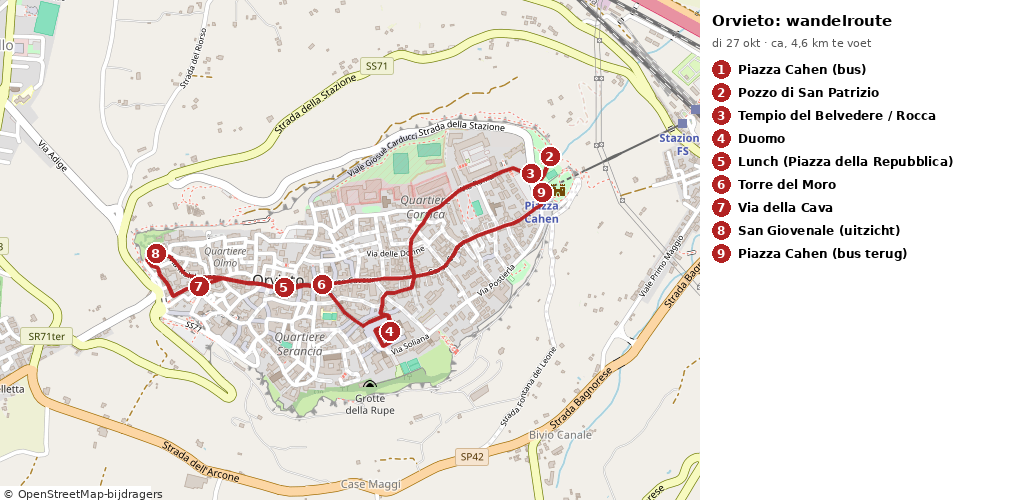
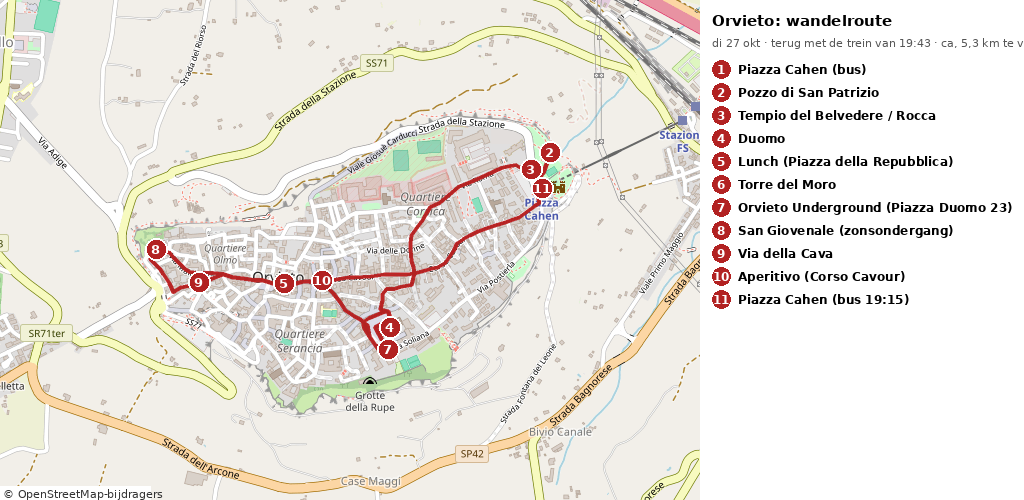
Orvieto: Underground 16:00, trein terug 19:43 (v125)

diff --git a/index.html b/index.html
@@ -245,9 +245,9 @@ rome26:{
   text:'De Janiculum-heuvel geeft het breedste uitzicht over Rome: koepels, daken en de heuvels erachter, met de zon die achter je ondergaat en de stad oranje kleurt. Onderweg passeer je de grote Fontana dell’Acqua Paola. Gratis. (Het kanonschot is om 12:00, dat zie je vandaag niet.) <b>Eten</b>: loop bergaf terug naar Trastevere, naar <b>Da Enzo al 29</b> (Via dei Vascellari 29, ca. 1,8 km, 24 min): kleine Romeinse trattoria, ma–za 18:30–22:30, <b>geen reserveringen</b>, dus rond 18:00 in de rij (bron: daenzoal29.com). <b>Terug naar het hotel</b>: <b>taxi</b> van de standplaats op <b>Piazza Giuseppe Gioacchino Belli</b> (ca. 0,5 km van Da Enzo, aan Viale di Trastevere) of bel 060609 / app <i>Chiama Taxi</i> (Roma Capitale). Naar Via Andrea Alciato 14 is het ca. 20 min; doordeweeks overdag €3,50 instap plus meter <span class="open">ritprijs ca. €15–20 geschat, niet gecontroleerd</span>.',extra:{url:'?stad=rome27',label:'➡ Volgende dag: dagtrip Orvieto'}}
  ]},
 rome27:{
- title:'Orvieto (di 27 okt)',sub:'Dagtrip met de trein: Pozzo di San Patrizio · Rocca en Etruskische tempel · Duomo met de fresco’s van Signorelli · lunch · Torre del Moro · Via della Cava · uitzicht vanaf de rand van de rots · ca. 4,6 km lopen',
- route:'https://www.google.com/maps/dir/Piazza+Cahen+Orvieto/Pozzo+di+San+Patrizio/Tempio+del+Belvedere+Orvieto/Duomo+di+Orvieto/Piazza+della+Repubblica+Orvieto/Torre+del+Moro+Orvieto/Pozzo+della+Cava+Orvieto/Chiesa+di+San+Giovenale+Orvieto/Piazza+Cahen+Orvieto/data=!4m2!4m1!3e2',
- note:'🧭 <b>Dag:</b> dagtrip naar Orvieto, een middeleeuws stadje bovenop een tufsteenrots, ca. 1¼ uur ten noorden van Rome. ⚠ <b>Treinen (Trenitalia, vanavond opgevraagd voor di 27 okt)</b>: de directe regionale treinen van 09:15 en 10:08 staan voor morgen <b>niet</b> in de dienstregeling (vermoedelijk werkzaamheden). <b>Heen</b>: <b>IC 588 Roma Termini 10:15 → Orvieto 11:37</b> (Intercity: Interrail plus kleine reservering, in de Trenitalia-app of via Interrail). Zonder reservering: RV 4098 08:20 → 10:22 (regionaal, rechtstreeks), of 10:32 metro B naar Tiburtina + RE 4100 11:08 → 12:22. <b>Terug</b>: <b>RV 4107 Orvieto 17:29 → Termini 19:45</b> (regionaal, rechtstreeks); ook 16:27 → 18:10 (overstap Orte), 19:43 → 21:35 (rechtstreeks), 20:15 IC → 22:20 en 21:29 → 23:20. Om 18:35 rijdt deels een bus. <span class="open">Check de tijden morgenochtend nog even in de Trenitalia-app</span>. 🚇 Hotel → Termini: ca. 09:30 het hotel uit, metro A Cornelia → Termini ca. 20 min (rechtstreeks, richting Anagnina). 🚌 <b>De funicolare is dicht voor onderhoud</b>: een pendelbus van BusItalia rijdt op werkdagen elke 10 min (07:30–20:30) van <b>Piazza Matteotti</b> (voor het station) naar <b>Piazza Cahen</b> boven op de rots <span class="open">prijs/kaartje niet gecontroleerd, vraag bij het station</span>. 🎫 Losse kaartjes: Pozzo €6, Duomo €8, Torre €3,80 (samen €17,80). De online <b>Carta Unica “Medioevo”</b> (€18: Duomo, Pozzo, Torre en Museo Faina) loont alleen als je ook het Museo Faina doet; de volledige <b>Carta Unica</b> (€35) bevat ook Orvieto Underground (cartaunica.it). 🕳 <b>Orvieto Underground</b>: rondleiding van ca. 1 uur door grotten en gangen onder de stad, dagelijks 11:00, 12:15, 16:00 en 17:15 vanaf Piazza Duomo 23, €10 (orvietoviva.com; reserveren via booking@orvietounderground.it of 0763 340688). Wil je die om 16:00 doen, sla dan Via della Cava en San Giovenale over, kijk de zonsondergang (ca. 17:13) vanuit de tuin van de Rocca bij Piazza Cahen en neem de trein van 19:43. 🍷 Proef de <b>Orvieto Classico</b>, de droge witte wijn van de heuvels rond de stad. 🔁 Toch in Rome blijven? Zie het <a href="?stad=rome27alt">alternatieve dinsdagprogramma</a>.'+'<br><a href="img/route_orvieto.png"><img src="img/route_orvieto.png" alt="Kaart Orvieto" style="width:100%;border-radius:10px;margin-top:10px"></a><br><small>Wandelroute over straten, stops 2–9 (Piazza Cahen → rondje → Piazza Cahen, ca. 4,6 km). Tik om te vergroten. © OpenStreetMap-bijdragers</small>',
+ title:'Orvieto (di 27 okt)',sub:'Dagtrip met de trein: Pozzo di San Patrizio · Rocca en Etruskische tempel · Duomo met de fresco’s van Signorelli · lunch · Torre del Moro · Orvieto Underground (16:00) · zonsondergang bij San Giovenale · Via della Cava · aperitivo · trein 19:43 · ca. 5,3 km lopen',
+ route:'https://www.google.com/maps/dir/Piazza+Cahen+Orvieto/Pozzo+di+San+Patrizio/Tempio+del+Belvedere+Orvieto/Duomo+di+Orvieto/Piazza+della+Repubblica+Orvieto/Torre+del+Moro+Orvieto/Piazza+del+Duomo+23+Orvieto/Chiesa+di+San+Giovenale+Orvieto/Pozzo+della+Cava+Orvieto/Corso+Cavour+Orvieto/Piazza+Cahen+Orvieto/data=!4m2!4m1!3e2',
+ note:'🧭 <b>Dag:</b> dagtrip naar Orvieto, een middeleeuws stadje bovenop een tufsteenrots, ca. 1¼ uur ten noorden van Rome. ⚠ <b>Treinen (Trenitalia, vanavond opgevraagd voor di 27 okt)</b>: de directe regionale treinen van 09:15 en 10:08 staan voor morgen <b>niet</b> in de dienstregeling (vermoedelijk werkzaamheden). <b>Heen</b>: <b>IC 588 Roma Termini 10:15 → Orvieto 11:37</b> (Intercity: Interrail plus kleine reservering, in de Trenitalia-app of via Interrail). Zonder reservering: RV 4098 08:20 → 10:22 (regionaal, rechtstreeks), of 10:32 metro B naar Tiburtina + RE 4100 11:08 → 12:22. <b>Terug (gekozen)</b>: <b>Orvieto 19:43 → Roma Termini 21:35</b> (RE, regionaal, rechtstreeks, Interrail zonder reservering). Mis je die: 20:15 IC → 22:20 (reservering) of 21:29 → 23:20. <span class="open">Check de tijden morgenochtend nog even in de Trenitalia-app</span>. 🚇 Hotel → Termini: ca. 09:30 het hotel uit, metro A Cornelia → Termini ca. 20 min (rechtstreeks, richting Anagnina). 🚌 <b>De funicolare is dicht voor onderhoud</b>: een pendelbus van BusItalia rijdt op werkdagen elke 10 min (07:30–20:30) van <b>Piazza Matteotti</b> (voor het station) naar <b>Piazza Cahen</b> boven op de rots <span class="open">prijs/kaartje niet gecontroleerd, vraag bij het station</span>. 🎫 Losse kaartjes: Pozzo €6, Duomo €8, Torre €3,80 (samen €17,80). De online <b>Carta Unica “Medioevo”</b> (€18: Duomo, Pozzo, Torre en Museo Faina) loont alleen als je ook het Museo Faina doet; de volledige <b>Carta Unica</b> (€35) bevat ook Orvieto Underground (cartaunica.it). 🕳 <b>Orvieto Underground</b>: rondleiding van ca. 1 uur door grotten en gangen onder de stad, dagelijks 11:00, 12:15, 16:00 en 17:15 vanaf Piazza Duomo 23, €10 (orvietoviva.com; reserveren via booking@orvietounderground.it of 0763 340688). <b>Je doet de tour van 16:00</b>; koop het kaartje bij het kantoor op Piazza Duomo 23 al als je bij de Duomo bent (ca. 13:00), dan weet je zeker dat er plek is. 🍷 Proef de <b>Orvieto Classico</b>, de droge witte wijn van de heuvels rond de stad. 🔁 Toch in Rome blijven? Zie het <a href="?stad=rome27alt">alternatieve dinsdagprogramma</a>.'+'<br><a href="img/route_orvieto.png"><img src="img/route_orvieto.png" alt="Kaart Orvieto" style="width:100%;border-radius:10px;margin-top:10px"></a><br><small>Wandelroute over straten, stops 2–11 (Piazza Cahen → rondje → Piazza Cahen, ca. 5,3 km). Tik om te vergroten. © OpenStreetMap-bijdragers</small>',
  stops:[
  {name:'Trein naar Orvieto en pendelbus naar boven',img:'img/145.jpg',time:'09:30 hotel → IC 10:15 → 11:37 → bus ca. 11:45',leg:'Hotel → metro A Cornelia → Termini (ca. 30 min incl. lopen) · IC 588 Termini 10:15 → Orvieto 11:37 · pendelbus Piazza Matteotti → Piazza Cahen, ca. 10 min',url:am('','Piazza%20Cahen%2C%20Orvieto','w'),
   text:'Vanuit de trein zie je Orvieto al liggen: een stad op een platte rots van vulkanisch tufsteen, zo’n 300 meter boven het dal van de Paglia. Etrusken woonden hier al (Velzna); in de middeleeuwen was het een vrije stadstaat en een geliefde schuilplaats van pausen. Omdat de kabelbaan (funicolare) in onderhoud is, neem je de <b>pendelbus</b> vanaf het plein voor het station (Piazza Matteotti) naar Piazza Cahen, elke 10 min.'},
@@ -256,15 +256,21 @@ rome27:{
  {name:'Tempio del Belvedere en de tuin van de Rocca',img:'img/147.jpg',time:'ca. 12:35–12:50',leg:'Pozzo → Tempio del Belvedere → tuin van de Rocca Albornoz, ca. 0,2 km, 3 min lopen',url:am('','Tempio%20del%20Belvedere%2C%20Orvieto','w'),
   text:'Naast de put liggen de fundamenten van een <b>Etruskische tempel</b> uit de 5e eeuw v.Chr., gratis te bekijken vanaf het hek. Daarachter de <b>Rocca Albornoz</b>, een pauselijke burcht uit 1364; in de tuin op de muren kijk je ver uit over het dal en de spoorlijn. Gratis.'},
  {name:'Duomo di Orvieto en de Cappella di San Brizio',img:'img/148.jpg',time:'ca. 13:05–13:50',leg:'Rocca → Corso Cavour → Via del Duomo → Piazza del Duomo, ca. 1,1 km, 14 min lopen',url:am('','Duomo%20di%20Orvieto','w'),
-  text:'Je loopt over de <b>Corso Cavour</b>, de hoofdstraat, en via de smalle Via del Duomo sta je opeens voor een van de mooiste gevels van Italië: gotisch, gestreept, vol gouden mozaïeken en reliëfs (1290–15e eeuw). Binnen zijn de muren gestreept met basalt en travertijn. Hoogtepunt is de <b>Cappella di San Brizio</b>, met de fresco’s van <b>Luca Signorelli</b> (1499–1504) over het einde der tijden en het Laatste Oordeel; Michelangelo kwam ze bestuderen. €8 (complex), okt 09:30–19:00.'},
+  text:'Je loopt over de <b>Corso Cavour</b>, de hoofdstraat, en via de smalle Via del Duomo sta je opeens voor een van de mooiste gevels van Italië: gotisch, gestreept, vol gouden mozaïeken en reliëfs (1290–15e eeuw). Binnen zijn de muren gestreept met basalt en travertijn. Hoogtepunt is de <b>Cappella di San Brizio</b>, met de fresco’s van <b>Luca Signorelli</b> (1499–1504) over het einde der tijden en het Laatste Oordeel; Michelangelo kwam ze bestuderen. €8 (complex), okt 09:30–19:00. 🎟 <b>Koop meteen je kaartje voor Orvieto Underground</b> (tour 16:00, €10) bij het kantoor op Piazza del Duomo 23, schuin tegenover de gevel.'},
  {name:'Lunch: Umbrische trattoria',img:'img/149.jpg',time:'ca. 14:00–15:00',leg:'Piazza del Duomo → Piazza della Repubblica / Via della Misericordia, ca. 0,6–0,8 km, 8–11 min lopen',url:am('','Via%20della%20Misericordia%2018%2C%20Orvieto','w'),
   text:'Drie rustige trattoria’s met Umbrische keuken, alle drie op dinsdag open: <b>Trattoria dell’Orso</b> (Via della Misericordia 18, 0763 341642): kleine historische trattoria vlak bij Piazza della Repubblica, pasta, soepen en zwarte truffel, lunch ca. 12:15–15:00, ca. €30–40 p.p. <span class="open">orvietoviva.com: gesloten op zondag; één gids meldt dinsdag dicht, bel even</span>. <b>Antico Bucchero</b> (Via dei Cartari 4, bij de Torre del Moro): Orvietaanse keuken met truffel en wild, o.a. pappardelle met witte wildzwijnragù, lunch 12:00–14:30, ca. €20–30 p.p., gesloten op vrijdag (orvietoviva.com, restaurantguru). <b>Trattoria La Palomba</b> (Via Cipriano Manente 16, 0763 343395): familiebedrijf sinds 1965, Michelin-gids (€), handgemaakte <i>umbrichelli</i> en duif (<i>palomba</i>), lunch tot 14:15, gesloten op woensdag; reserveer en ga liever vóór de Duomo (ca. 13:00) <span class="open">prijs ca. €30 p.p. geschat</span>. Drink er een glas <b>Orvieto Classico</b> bij. Let op: Trattoria del Moro Aronne en La Grotta zijn op dinsdag dicht.'},
  {name:'Torre del Moro',img:'img/150.jpg',time:'ca. 15:05–15:35 (laatste klim 16:00)',leg:'Piazza della Repubblica → Corso Cavour 87, ca. 0,15 km, 2 min lopen',url:am('','Torre%20del%20Moro%2C%20Orvieto','w'),
   text:'De 47 meter hoge stadstoren (13e eeuw) op de kruising van de oude hoofdstraten. Je klimt (deels met een lift) naar de top, met het beste uitzicht van de stad: de Duomo, de daken en het dal rondom. €3,80, okt 10:30–16:30, laatste klim 16:00.'},
- {name:'Via della Cava en het middeleeuwse kwartier',img:'img/151.jpg',time:'ca. 15:45–16:05',leg:'Torre del Moro → Corso Cavour → Via della Cava, ca. 0,45 km, 6 min lopen',url:am('','Pozzo%20della%20Cava%2C%20Orvieto','w'),
-  text:'Het westelijke deel van de stad, het <b>Quartiere Medievale</b>, is het stilste en mooiste: steegjes van tufsteen, bloempotten, kleine werkplaatsen. Via della Cava loopt schuin naar beneden naar de oude stadspoort Porta Maggiore. Halverwege ligt de <b>Pozzo della Cava</b>, een Etruskische put met grotten eronder <span class="open">optioneel, openingstijden en prijs niet gecontroleerd</span>.'},
- {name:'San Giovenale: uitzicht vanaf de rand van de rots',img:'img/152.jpg',time:'ca. 16:10–16:30',leg:'Via della Cava → Via Volsinia → Piazza San Giovenale, ca. 0,3 km, 4 min lopen',url:am('','Chiesa%20di%20San%20Giovenale%2C%20Orvieto','w'),
-  text:'Op het westelijke puntje van de rots staat de <b>San Giovenale</b> (1004), de oudste kerk van Orvieto, met fresco’s uit de 13e–15e eeuw. Vanaf het pleintje kijk je over de rand van de rots naar de wijngaarden waar de Orvieto Classico vandaan komt. <b>Terug</b>: loop over Via Malabranca en Corso Cavour terug naar <b>Piazza Cahen</b> (ca. 1,5 km, 20 min), neem rond 16:55 de pendelbus naar het station en de <b>RV 4107 om 17:29</b> naar Termini (aankomst 19:45). Daarna metro A naar Cornelia; rond 20:25 ben je in het hotel.',extra:{url:'?stad=rome',label:'➡ Woensdag: Colosseum en trein naar Bolzano'}}
+ {name:'Orvieto Underground',img:'img/153.jpg',time:'15:40 bij het kantoor · tour 16:00–17:00',leg:'Torre del Moro → Via del Duomo → Piazza del Duomo 23, ca. 0,4 km, 5 min lopen',url:am('','Piazza%20del%20Duomo%2023%2C%20Orvieto','w'),
+  text:'Onder Orvieto liggen meer dan 1200 grotten, gangen en putten, in de loop van 2500 jaar in het zachte tufsteen uitgehakt. Met een gids (ook in het Engels) daal je af in de rotswand onder de stad: Etruskische waterputten, middeleeuwse olijfpersen en kelders, en de <b>colombai</b>, wanden vol nisjes waarin duiven werden gehouden voor het vlees (vandaar <i>palomba</i> op het menu). Start bij het kantoor op <b>Piazza del Duomo 23</b>, ca. 1 uur, <b>€10</b>. Er zijn treden; neem een jas mee, het is er koel.'},
+ {name:'San Giovenale: zonsondergang aan de rand van de rots',img:'img/152.jpg',time:'ca. 17:15–17:35 (zon onder ca. 17:13)',leg:'Piazza del Duomo → Via Malabranca → Piazza San Giovenale, ca. 1,0 km, 12–13 min lopen',url:am('','Chiesa%20di%20San%20Giovenale%2C%20Orvieto','w'),
+  text:'Loop na de tour meteen door naar het westelijke puntje van de rots. Daar staat de <b>San Giovenale</b> (1004), de oudste kerk van Orvieto. Vanaf het pleintje kijk je over de rand van de rots naar het dal en de wijngaarden waar de Orvieto Classico vandaan komt. Je komt net na zonsondergang aan, in het mooiste avondrood.'},
+ {name:'Via della Cava en het middeleeuwse kwartier',img:'img/151.jpg',time:'ca. 17:40–17:55',leg:'San Giovenale → Via della Cava, ca. 0,3 km, 4 min lopen',url:am('','Pozzo%20della%20Cava%2C%20Orvieto','w'),
+  text:'Terug de stad in door het <b>Quartiere Medievale</b>, het stilste en mooiste deel van Orvieto: steegjes van tufsteen, bloempotten, kleine werkplaatsen, in de schemering met de lantaarns aan. Via della Cava loopt schuin omhoog richting Corso Cavour; halverwege ligt de <b>Pozzo della Cava</b>, een Etruskische put <span class="open">openingstijden niet gecontroleerd</span>.'},
+ {name:'Aperitivo met Orvieto Classico',img:'img/154.jpg',time:'ca. 18:00–19:00',leg:'Via della Cava → Corso Cavour (bij de Torre del Moro / Piazza della Repubblica), ca. 0,45 km, 6 min lopen',url:am('','Corso%20Cavour%2C%20Orvieto','w'),
+  text:'Sluit af met een glas <b>Orvieto Classico</b> in een enoteca of bar aan of rond de Corso Cavour, met een plankje Umbrische salumi en pecorino of een bruschetta met truffel. Een echt diner lukt niet: de trattoria’s gaan ’s avonds pas om 19:00–19:30 open, dus maak van het plankje je avondeten of neem iets mee voor in de trein <span class="open">geen specifieke bar gecontroleerd</span>. Vertrek <b>uiterlijk 19:00</b> naar Piazza Cahen.'},
+ {name:'Pendelbus en trein terug naar Rome',img:'img/155.jpg',time:'bus ca. 19:15 · trein 19:43 → 21:35 · hotel ca. 22:15',leg:'Corso Cavour → Piazza Cahen, ca. 0,9 km, 12 min lopen · pendelbus naar het station, ca. 10 min',url:am('','Stazione%20di%20Orvieto','w'),
+  text:'Neem rond <b>19:15</b> de pendelbus van Piazza Cahen naar het station (elke 10 min, tot 20:30), zodat je ruim op tijd bent voor de <b>trein van 19:43</b>, rechtstreeks naar <b>Roma Termini (21:35)</b>, regionaal en zonder reservering. In Termini neem je <b>metro A</b> richting Battistini naar <b>Cornelia</b> (ca. 20 min), dan 8 min lopen: rond <b>22:15</b> ben je in het hotel. Kijk vanuit de bus nog één keer om naar de stad op de rots.',extra:{url:'?stad=rome',label:'➡ Woensdag: Colosseum en trein naar Bolzano'}}
  ]},
 rome27alt:{
  title:'Rome (di 27 okt) – alternatief',sub:'Als je tóch in Rome blijft: Piazza del Popolo, Pincio, Villa Borghese, Spaanse Trappen, Trevi, Engelenburcht bij zonsondergang · ca. 5,5 km (Pantheon en Navona heb je maandag al gezien)',
@@ -482,7 +488,7 @@ D('2026-10-23','Taormina → Catania, middag en avond',['☀ Zonnig tot half 
 D('2026-10-24','Dagtrip Siracusa en Ortigia',['☀ 13–26°C, droog, weinig wind · ⏰ vannacht gaat de klok terug (wintertijd)','🚆 Hotel weg 07:25, <b>RE 12959 Cannizzaro 07:49 → Catania Centrale 08:02</b> (Interrail)','🚌 <b>Trenitalia-bus PA519 08:56 → Siracusa 09:49</b> (rechtstreeks; Interrail <span class="open">check bij de chauffeur</span>)','🏛 10:10 Tempio di Apollo (gratis van buiten)','🛒 10:30–12:15 <b>Mercato di Ortigia</b> (zaterdag open tot ca. 14:00): salumi, kaas, olijven, panino voor de lunch','⛲ 12:30 Piazza Duomo · 13:15 Fonte Aretusa, Lungomare Alfeo, Castello Maniace van buiten, gelato','🚌 Terug: 16:40 lopen naar Via Rubino, <b>bus PA538 17:11 → Catania 18:19</b>; dan RE 5372 18:34 → Cannizzaro 18:42 (krap) of bus 434 19:30','🍕 Diner in Aci Castello: Dietro Le Mura of Fornace41 (Aci Trezza)','📝 <span class="open">Besluit Rome → Bolzano</span>']),
 D('2026-10-25','Catania → Rome',['⏰ <b>Vannacht klok een uur terug</b> (wintertijd); tijden hieronder zijn wintertijd','🏨 Four Points Catania: ontbijt, uitchecken, <b>ca. 08:30 taxi</b> naar Catania Centrale (ca. 20 min)','🚆 <b>RE 22110 Catania Centrale 09:15 → Messina Centrale 11:10</b> (regionaal, op je pass)','🚶 5 min lopen naar Messina Marittima (<b>korte overstap</b>)','⛴ <b>Blu Jet 11:30 → Villa S. Giovanni 11:50</b> (niet op je pass, ca. €2,50: Trenitalia-app of Blu Jet-kassa)','🚄 <b>FR 9658 Villa S. Giovanni 12:26 → Roma Termini 17:40</b> (richting Milano Centrale) <span class="open">Interrail-reservering €13 nog maken/controleren</span>','🚇 Metro A Termini → Cornelia (ca. 20 min) · 🏨 <b>c-hotels Club House Roma</b>, Via Andrea Alciato 14 (25–28 okt)']),
 D('2026-10-26','Rome: Vaticaan & Trastevere',['🚇 11:00 hotel uit · metro A Cornelia → Ottaviano (ca. 7 min)','⛪ ca. 11:30 Sint-Pietersplein en basiliek (gratis, veiligheidscontrole rechter zuilengalerij; koepel optioneel €34/€44) · Vaticaanse Musea overgeslagen','🍝 ca. 13:15 lunch in Borgo Pio (of eerder Pizzarium Bonci bij metro Cipro)','🏰 ca. 14:30 Engelenburcht + Engelenbrug van buiten (ma dicht) · 15:10 Campo de’ Fiori · 15:45 Trastevere','🌇 ca. 16:50 Gianicolo, zonsondergang ca. 17:14 · eten: Da Enzo al 29 (vanaf 18:30, geen reservering)','🚕 Terug: taxi van Piazza G.G. Belli of 060609 (ca. 20 min)']),
-D('2026-10-27','Dagtrip Orvieto',['🚆 ca. 09:30 hotel uit · metro A → Termini · IC 588 10:15 → Orvieto 11:37 (Interrail + reservering; de 10:08 rijdt morgen niet)','🚌 pendelbus (funicolare dicht) → 11:55 Pozzo di San Patrizio (€6) · 12:35 Etruskische tempel en Rocca','⛪ 13:05 Duomo met de Cappella di San Brizio (€8)','🍝 14:00 lunch: Trattoria dell’Orso, Antico Bucchero of La Palomba · Orvieto Classico','🗼 15:05 Torre del Moro (€3,80, laatste klim 16:00) · 15:45 Via della Cava · 16:10 San Giovenale','🚆 Terug: bus ca. 16:55 → RV 4107 17:29 → Termini 19:45 (of 19:43 → 21:35) · Rome-alternatief in de dagpagina']),
+D('2026-10-27','Dagtrip Orvieto',['🚆 ca. 09:30 hotel uit · metro A → Termini · IC 588 10:15 → Orvieto 11:37','🚌 pendelbus (funicolare dicht) → 11:55 Pozzo di San Patrizio (€6) · 12:35 Etruskische tempel en Rocca','⛪ 13:05 Duomo (€8) · koop daar je kaartje voor Orvieto Underground (Piazza Duomo 23)','🍝 14:00 lunch: Trattoria dell’Orso, Antico Bucchero of La Palomba · 🗼 15:05 Torre del Moro (€3,80, laatste klim 16:00)','🕳 16:00–17:00 Orvieto Underground (€10) · 🌅 17:15 San Giovenale · 17:40 Via della Cava · 🍷 18:00 aperitivo met Orvieto Classico','🚆 Terug: bus ca. 19:15 → trein 19:43 → Termini 21:35 → metro A Cornelia · hotel ca. 22:15']),
 D('2026-10-28','Rome → Bolzano',['🧳 ca. 07:45 uitchecken · metro A Cornelia → Termini · bagage naar <b>KiPoint</b> (Via Giolitti, spoor 24; 07:00–21:00; €6 per stuk voor 5 uur, daarna €1/uur)','🚇 Metro B Termini → Colosseo (2 haltes)','🎫 <b>09:15 Colosseum-tour</b> (Gladiator Floor) · verzamelpunt en einde van de tour <span class="open">niet gecontroleerd</span>','⛪ ca. 12:00 San Pietro in Vincoli (Mozes van Michelangelo, gratis) → 12:30 Santa Maria Maggiore (gratis) → ca. 14:00 Roma Termini: bagage ophalen, lunch hartig','🚆 <b>FR 8520 Roma Termini 14:45 → Bolzano 19:58</b> (rechtstreeks, reservering €13 verplicht) <span class="open">nog niet gereserveerd/geverifieerd</span>','🌆 Avond: Station → Piazza Walther → Duomo → Via dei Portici (ca. 0,9 km), diner met speck en canederli','🏨 Nacht in Bolzano: <b>Four Points by Sheraton</b> of <b>B&amp;B Hotel</b> <span class="open">nog niet geboekt; beide buiten het centrum, ca. 3,7 km en 2,3 km</span>','<span class="open">⚠ Check in de Interrail-app of je pass genoeg reisdagen heeft (28, 29, 31 okt, 1 en 2 nov = 5 reisdagen, plus 25 en eventueel 26 okt)</span>']),
 D('2026-10-29','Bolzano → Innsbruck',['🚶 08:50–09:40 Talvera-promenade en Castel Mareccio (lus ca. 3 km)','🚆 <b>Railjet RJ 88 Bolzano 10:36 → Innsbruck Hbf 12:32</b> (Brennerpas ca. 11:48, voor de staking van 29 okt 21:00); supplement Brenner 1e klas €15 <span class="open">nog niet geboekt</span>','🏨 <b>Hilton Garden Inn Innsbruck Tivoli</b> (29 en 30 okt) <span class="open">nog niet geboekt</span>','⭐ Middag: Maria-Theresien-Straße, Goldenes Dachl, Hofgarten, Inn-promenade en Markthalle (zonsondergang ca. 17:00)']),
 D('2026-10-30','Innsbruck: rustdag',['🛑 Italiaanse spoorstaking tot 20:59: vandaag geen treinreis','☕ Rustig: ontbijt, Altstadt, Hofgarten, Inn-promenade (gratis)','🏨 Hilton Garden Inn Innsbruck Tivoli, tweede nacht <span class="open">nog niet geboekt</span>']),

diff --git a/sw.js b/sw.js
@@ -1,4 +1,4 @@
-const C='reisgids-v124';const F=['./','index.html','manifest.webmanifest','apple-touch-icon.png','img/pompeii_route.png','img/route_catania.png','img/route_ciclopi.png','img/route_ortigia.png','img/route_rome.png','img/route_rome26.png','img/route_rome27.png','img/route_orvieto.png','img/route_rome27alt.png','img/route_bolzano.png','img/route_talvera.png','img/route_innsbruck.png','img/route_wurzburg.png','img/route_heidelberg.png',...[...Array(152).keys()].map(i=>i+1).map(i=>`img/${i}.jpg`)];
+const C='reisgids-v125';const F=['./','index.html','manifest.webmanifest','apple-touch-icon.png','img/pompeii_route.png','img/route_catania.png','img/route_ciclopi.png','img/route_ortigia.png','img/route_rome.png','img/route_rome26.png','img/route_rome27.png','img/route_orvieto.png','img/route_rome27alt.png','img/route_bolzano.png','img/route_talvera.png','img/route_innsbruck.png','img/route_wurzburg.png','img/route_heidelberg.png',...[...Array(155).keys()].map(i=>i+1).map(i=>`img/${i}.jpg`)];
 self.addEventListener('install',e=>{self.skipWaiting();e.waitUntil(caches.open(C).then(c=>c.addAll(F)))});
 self.addEventListener('activate',e=>e.waitUntil(caches.keys().then(k=>Promise.all(k.filter(x=>x!==C).map(x=>caches.delete(x)))).then(()=>self.clients.claim())));
 self.addEventListener('fetch',e=>e.respondWith(caches.match(e.request,{ignoreSearch:true}).then(r=>r||fetch(e.request))));
